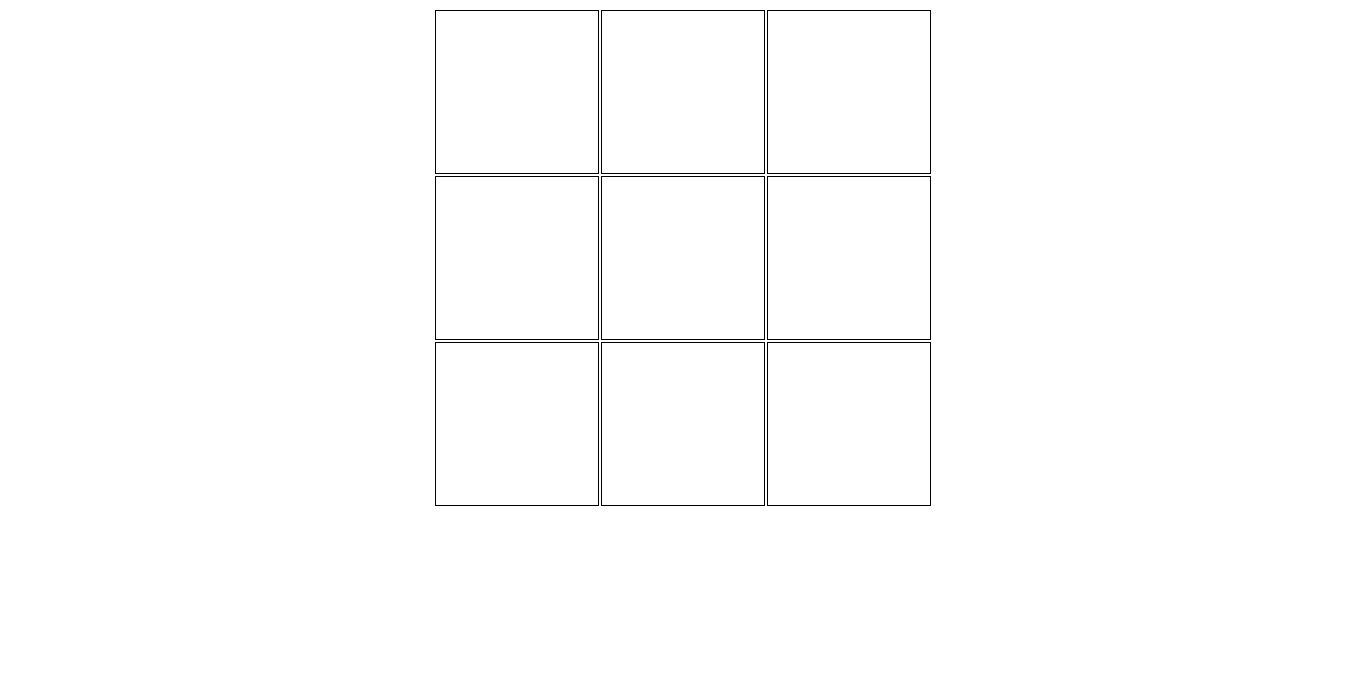
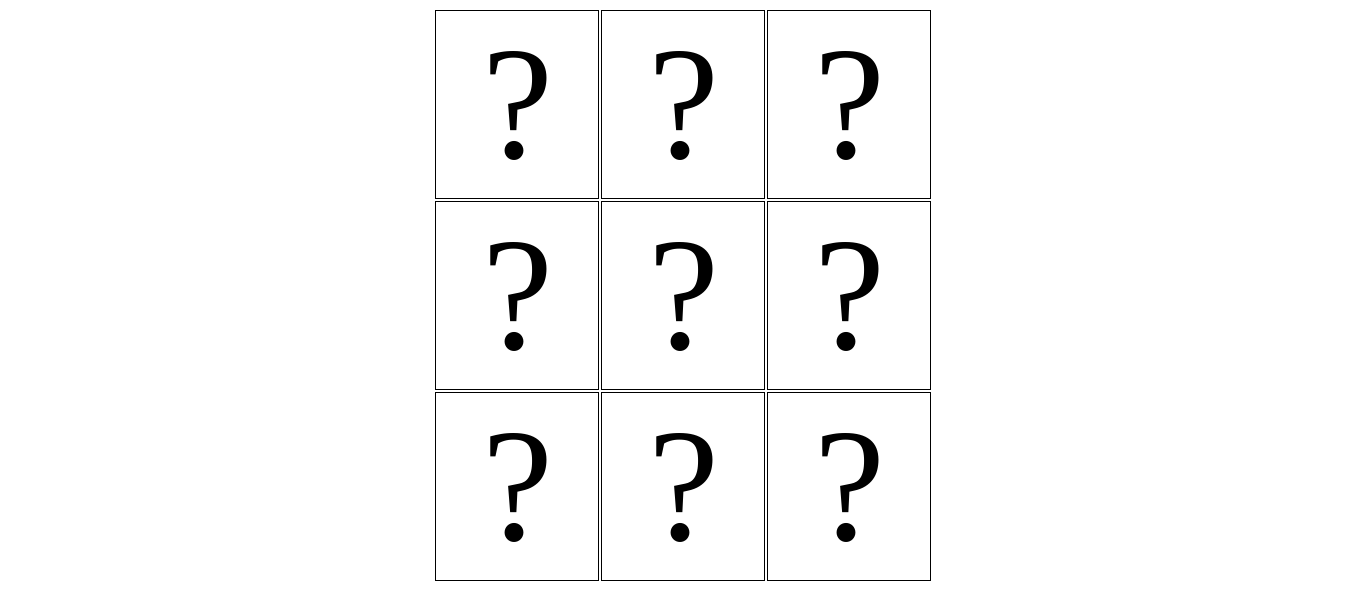
Wrote some javascript to reset the gameboard, and to find out which player owns a given square.

diff --git a/script.js b/script.js
@@ -1,0 +1,25 @@
+var gameboard; /* Declare a *variable* called 'gameboard'. */
+var whoseTurnIsIt; /* Declare a *variable* to remember whose turn it is. */
+
+/* Sets 'whoseTurnIsIt' to the other player. (whoever's turn it ISN'T) */
+function newTurn(){
+	if( whoseTurnIsIt === 'X' )
+		whoseTurnIsIt = 'Y';
+	else
+		whoseTurnIsIt = 'X';
+}
+
+/* Fill in all spaces with '?', to reset the gameboard. */
+function resetGameboard() {
+	gameboard = $('.tic-tac-toe-gameboard');
+		/* The *variable* 'gameboard' now refers to the gameboard as a whole. */
+
+	var allSpaces = gameboard.find('td').text('?');
+		/* Find all of the spaces, and set their text to "?". */
+
+	newTurn();
+}
+
+
+/* Tells the browser to run resetGameboard() when the page has loaded. */
+$(resetGameboard);

diff --git a/style.css b/style.css
@@ -16,8 +16,7 @@
 
 	width: 1em; /* em is relative to font-size, again, for smartphone adaptability. */
 	height: 1em;
-		/* Make the spaces squares. /*
+		/* Make the spaces squares. */
 	
-		
 }
 
